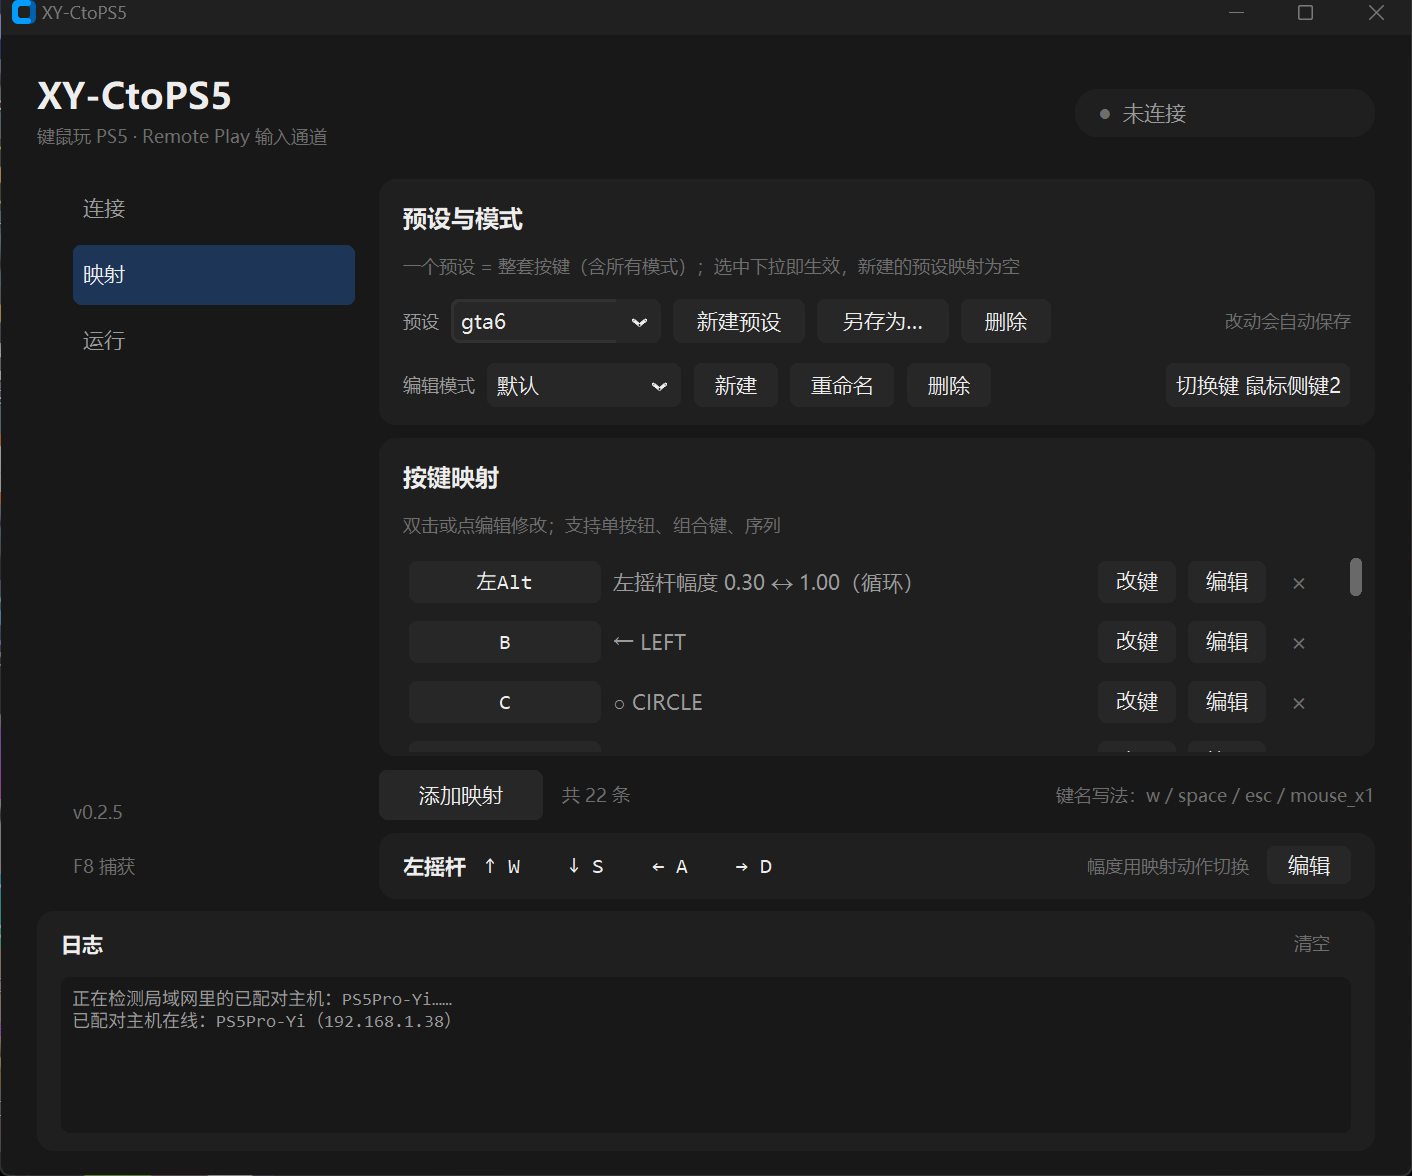
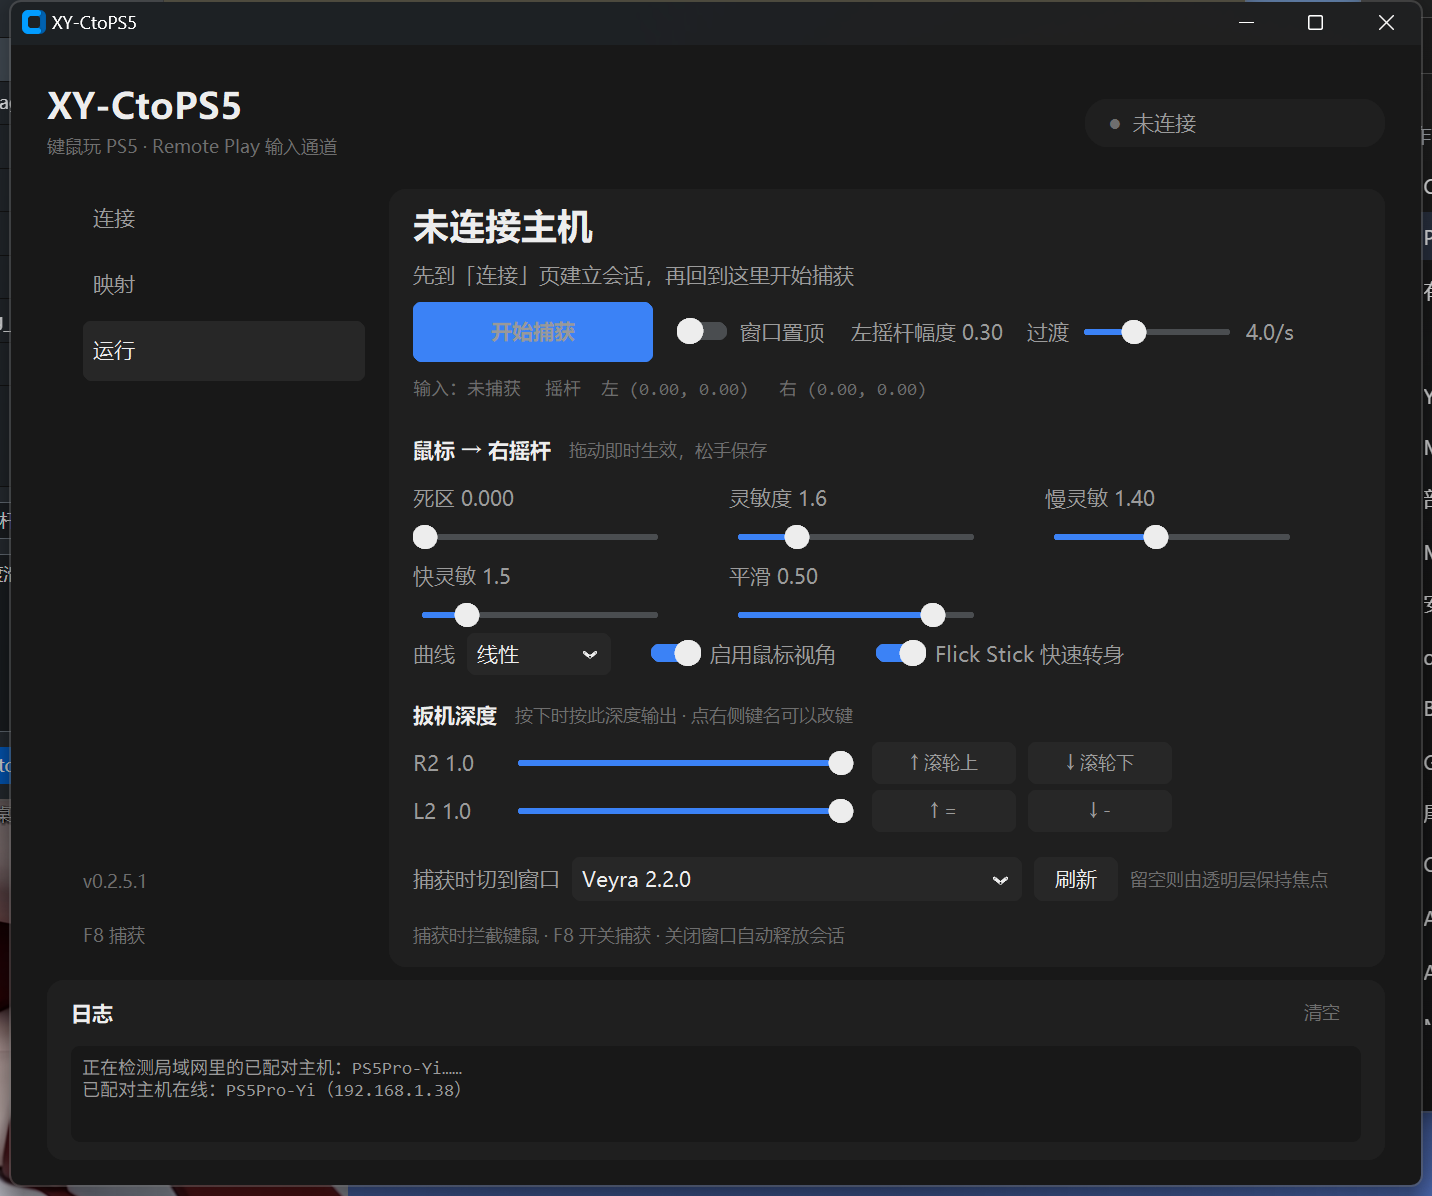
v0.2.5.1: 运行页「过渡」归位到左摇杆

diff --git a/ps5kbm/run_tuning_ui.py b/ps5kbm/run_tuning_ui.py
@@ -1,4 +1,4 @@
-"""运行页的手感调参区：鼠标 → 右摇杆、扳机深度。
+"""运行页的手感调参区：左摇杆过渡、鼠标 → 右摇杆、扳机深度。
 
 单独成模块，避免 run_ui.py 越滚越大；只摆控件，回调都在 app.py。
 """
@@ -35,12 +35,46 @@ def curve_label(value: str) -> str:
     return _CURVE_LABELS.get((value or "linear").lower(), "线性")
 
 
+def build_left_stick(app, parent) -> None:
+    """左摇杆过渡速度：跟在「左摇杆幅度」后面，同一行。
+
+    过渡（ramp）是「WASD 从 0 推到目标幅度要多快」，属于左摇杆；
+    以前放在「鼠标 → 右摇杆」下面，容易让人以为它调的是右摇杆。
+    这里做成一行紧凑控件，不额外占一段高度（运行页本来就刚好一屏）。
+    """
+    app._stick_ramp_var = tk.DoubleVar(value=app._config.left_stick.ramp)
+    ctk.CTkLabel(
+        parent, text="过渡", font=font(T.SM), text_color=T.TEXT_DIM
+    ).pack(side="left", padx=(T.S4, T.S1))
+    slider = ctk.CTkSlider(
+        parent,
+        from_=0.0,
+        to=12.0,
+        number_of_steps=24,
+        variable=app._stick_ramp_var,
+        command=app._apply_stick_ramp,
+        width=110,
+        progress_color=T.ACCENT,
+        button_color=T.TEXT,
+        button_hover_color=T.TEXT,
+    )
+    slider.pack(side="left")
+    # 和别的手感滑条一样：松开才写盘
+    slider.bind("<ButtonRelease-1>", app._commit_sliders, add="+")
+    app._stick_ramp_label = ctk.CTkLabel(
+        parent,
+        text=f"{app._config.left_stick.ramp:.1f}/s",
+        font=font(T.SM),
+        text_color=T.TEXT_DIM,
+    )
+    app._stick_ramp_label.pack(side="left", padx=(T.S1, 0))
+
+
 def build_mouse_tuning(app, parent) -> None:
-    """三列网格排 6 个滑条 + 一行曲线 / 开关，横向不会被窗口裁掉。"""
+    """三列网格排 5 个滑条 + 一行曲线 / 开关，横向不会被窗口裁掉。"""
     divider(parent)
     _section_header(parent, "鼠标 → 右摇杆", "拖动即时生效，松手保存")
 
-    app._stick_ramp_var = tk.DoubleVar(value=app._config.left_stick.ramp)
     app._deadzone_var = tk.DoubleVar(value=app._config.mouse.deadzone)
     app._sens_var = tk.DoubleVar(value=app._config.mouse.sensitivity)
     app._slow_sens_var = tk.DoubleVar(value=app._config.mouse.slow_sensitivity)
@@ -48,17 +82,6 @@ def build_mouse_tuning(app, parent) -> None:
     app._smoothing_var = tk.DoubleVar(value=app._config.mouse.smoothing)
 
     row1 = _grid_row(parent, 3)
-    cell, app._stick_ramp_label = _tuning_cell(
-        app,
-        row1,
-        f"过渡 {app._config.left_stick.ramp:.1f}/s",
-        app._stick_ramp_var,
-        0.0,
-        12.0,
-        24,
-        app._apply_stick_ramp,
-    )
-    cell.grid(row=0, column=0, sticky="w", padx=(0, T.S3))
     cell, app._deadzone_label = _tuning_cell(
         app,
         row1,
@@ -69,7 +92,7 @@ def build_mouse_tuning(app, parent) -> None:
         40,
         app._apply_deadzone,
     )
-    cell.grid(row=0, column=1, sticky="w", padx=(0, T.S3))
+    cell.grid(row=0, column=0, sticky="w", padx=(0, T.S3))
     cell, app._sens_label = _tuning_cell(
         app,
         row1,
@@ -80,12 +103,10 @@ def build_mouse_tuning(app, parent) -> None:
         58,
         app._apply_sensitivity,
     )
-    cell.grid(row=0, column=2, sticky="w")
-
-    row2 = _grid_row(parent, 3)
+    cell.grid(row=0, column=1, sticky="w", padx=(0, T.S3))
     cell, app._slow_sens_label = _tuning_cell(
         app,
-        row2,
+        row1,
         f"慢灵敏 {app._config.mouse.slow_sensitivity:.2f}",
         app._slow_sens_var,
         0.2,
@@ -93,7 +114,9 @@ def build_mouse_tuning(app, parent) -> None:
         28,
         app._apply_slow_sensitivity,
     )
-    cell.grid(row=0, column=0, sticky="w", padx=(0, T.S3))
+    cell.grid(row=0, column=2, sticky="w")
+
+    row2 = _grid_row(parent, 3)
     cell, app._fast_sens_label = _tuning_cell(
         app,
         row2,
@@ -104,7 +127,7 @@ def build_mouse_tuning(app, parent) -> None:
         55,
         app._apply_fast_sensitivity,
     )
-    cell.grid(row=0, column=1, sticky="w", padx=(0, T.S3))
+    cell.grid(row=0, column=0, sticky="w", padx=(0, T.S3))
     cell, app._smoothing_label = _tuning_cell(
         app,
         row2,
@@ -115,7 +138,7 @@ def build_mouse_tuning(app, parent) -> None:
         60,
         app._apply_smoothing,
     )
-    cell.grid(row=0, column=2, sticky="w")
+    cell.grid(row=0, column=1, sticky="w")
 
     extras = ctk.CTkFrame(parent, fg_color="transparent")
     extras.pack(fill="x")

diff --git a/ps5kbm/run_ui.py b/ps5kbm/run_ui.py
@@ -1,7 +1,7 @@
 """运行页：捕获状态、手感调参、捕获目标。
 
 布局目标是一屏放得下（默认窗口 940×760）：整页排成一张卡，按
-「状态 / 鼠标 / 扳机 / 捕获目标」分四段，滑条走三列网格，
+「状态 / 左摇杆 / 鼠标 / 扳机 / 捕获目标」分段，滑条走三列网格，
 避免旧版那样横向被窗口裁掉、纵向把日志区挤没。
 
 只负责"长什么样"；回调都在 app.py，尺寸与颜色来自 theme.py。
@@ -79,6 +79,8 @@ def _build_status(app, parent) -> None:
         text_color=T.TEXT_DIM,
     )
     app._stick_value_label.pack(side="left")
+    # 过渡速度也是左摇杆的设置，挨着幅度放在同一行
+    run_tuning_ui.build_left_stick(app, controls)
 
     info = ctk.CTkFrame(parent, fg_color="transparent")
     info.pack(fill="x", pady=(T.S1, 0))

diff --git a/ps5kbm/app.py b/ps5kbm/app.py
@@ -1111,7 +1111,7 @@ class Ps5KbmApp:
         """左摇杆过渡速度：越大推得越快，0 表示瞬时到位。"""
         ramp = float(value)
         self._config.left_stick.ramp = ramp
-        self._stick_ramp_label.configure(text=f"过渡 {ramp:.1f}/s")
+        self._stick_ramp_label.configure(text=f"{ramp:.1f}/s")
 
     def _apply_deadzone(self, value: float) -> None:
         """右摇杆死区：越小越灵敏，0 表示完全不过滤微小位移。"""

diff --git a/ps5kbm/__init__.py b/ps5kbm/__init__.py
@@ -1,3 +1,3 @@
 """PS5 键鼠桥：把 PC 键鼠映射成 PS5 手柄输入，经 Remote Play 协议发送。"""
 
-__version__ = "0.2.5"
+__version__ = "0.2.5.1"

diff --git a/docs/使用说明.md b/docs/使用说明.md
@@ -240,8 +240,9 @@ pyremoteplay 的协议实现可能落后于新固件。先更新依赖：
 
 一屏放得下所有可调项（滑条拖动即时生效，松开写入 `tuning.json`）：
 
-- 顶部：连接状态、**开始捕获**、窗口置顶开关、左摇杆幅度，以及输入 / 摇杆实时数值；
-- 鼠标 → 右摇杆：三列滑条（过渡、死区、灵敏度 / 慢灵敏、快灵敏、平滑），
+- 顶部：连接状态、**开始捕获**、窗口置顶开关、左摇杆幅度（只读，由「摇杆幅度」映射动作切换）
+  和**左摇杆过渡**滑条（WASD 推到目标幅度要多快，0 = 瞬时到位）；
+- 鼠标 → 右摇杆：滑条（死区、灵敏度、慢灵敏 / 快灵敏、平滑），
   下面一行是曲线类型、鼠标视角总开关、Flick Stick；
 - 扳机深度：R2 / L2 按下时输出的深度。滑条调好的深度会存进 `tuning.json`，重启、换会话都保持；
   右侧两个按钮是"加深 / 减浅"键（默认 `↑ 滚轮上`、`↓ 滚轮下`、`↑ =`、`↓ -`），

diff --git a/CHANGELOG.md b/CHANGELOG.md
@@ -2,6 +2,14 @@
 
 本项目遵循 [语义化版本](https://semver.org/lang/zh-CN/)。
 
+## v0.2.5.1 — 2026-11-24
+
+### 修复
+
+- **「过渡」挪回左摇杆**：运行页原来把左摇杆的过渡速度放在「鼠标 → 右摇杆」下面，
+  容易让人以为它调的是右摇杆；现在和「左摇杆幅度」放在同一行，鼠标段只剩死区 / 灵敏度 / 平滑。
+  运行页高度不变（仍在默认窗口一屏内，日志区完整可见）。
+
 ## v0.2.5 — 2026-11-23
 
 ### 变更
